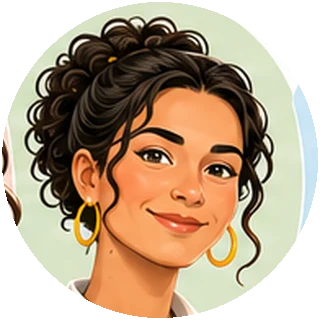
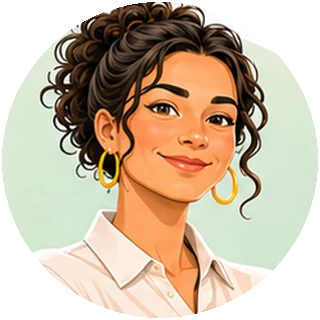
Portraits: re-cut from Leo's third sheet, add Frau Vogt
Sharper faces; Melnyk without glasses as on the first sheet, Haddad as
known, Frau Vogt new and clearly distinct.

Claude-Session: https://claude.ai/code/session_01DC5VQB2TshgMSF986Y8GDT

diff --git a/VORLAGE.md b/VORLAGE.md
@@ -232,7 +232,7 @@ Beispielsätze stehen in `<p class="satzbau">`.
 - `.formular` / `.formular-feld` – beschriftetes Formularraster
 - `.satzfolge` – klickbares Satzpuzzle mit Vorrat und gebautem Satz
 - `.bildgrammatik` – eigenes erklärendes Schaubild mit Bildunterschrift
-- `.gespraech` mit `.gespraech__zeile` (für die zweite Person zusätzlich `.gespraech__zeile--b`), darin `img.gespraech__bild` und `.gespraech__blase` mit `.gespraech__name` – Gesprächsszene mit festen Figurenporträts aus `assets/figuren/` (nora, lenz, melnyk, haddad, nowak, becker, sommer, bote). Texte stehen nie im Bild, immer in der Blase.
+- `.gespraech` mit `.gespraech__zeile` (für die zweite Person zusätzlich `.gespraech__zeile--b`), darin `img.gespraech__bild` und `.gespraech__blase` mit `.gespraech__name` – Gesprächsszene mit festen Figurenporträts aus `assets/figuren/` (nora, lenz, melnyk, haddad, nowak, becker, sommer, bote, vogt). Texte stehen nie im Bild, immer in der Blase.
   Per Skript: `Lehrwerk.szene(zielId, [{ wer:'nora', name:'Nora', text:'…', b:true }])` baut die Szene (b = rechte Seite).
 - `figure.reiter-bild` mit `img` – Szenenbild oben im Reiter, direkt nach `.stand-hinweis`, Dateien in `assets/szenen/`, Bilder ohne Text, mit sprechendem alt
 - `img.symbol` – kleines rundes Symbol vor einer Überschrift, Dateien in `assets/symbole/` (klemmbrett, kalender, paket, brief, telefon, laptop, ordner, notizzettel), immer mit leerem alt
